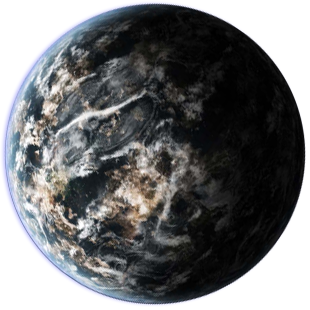
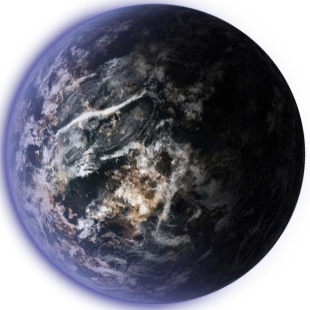
- PNG Versions of Discovery Planets
git-svn-id: https://devel.etoa.net/svn/etoa-gui/trunk@617 9ddb851b-07ab-4ff2-becd-2ceea2d3057d

Changed region(s): [[0.0, 0.0, 0.7548, 1.0]]

diff --git a/content/planetoverview.php b/content/planetoverview.php
@@ -231,7 +231,7 @@
 			echo "<table class=\"tbl\">";
 			echo "<tr>
 				<td style=\"width:330px;background:#000 url('".IMAGE_PATH."/backgrounds/bg".mt_rand(1,PLANET_BACKGROUND_COUNT).".jpg');\" rowspan=\"".($cp->debrisField ? 11 : 10)."\">
-				<img src=\"".IMAGE_PATH."/".IMAGE_PLANET_DIR."/planet".$cp->image.".gif\" alt=\"Planet\" style=\"width:310px;height:310px\"/>
+				<img src=\"".IMAGE_PATH."/".IMAGE_PLANET_DIR."/planet".$cp->image.".".IMAGE_EXT."\" alt=\"Planet\" style=\"width:310px;height:310px\"/>
 			</td>";
 			echo "<td class=\"tbltitle\">Kennung:</td><td class=\"tbldata\">
 				".$cp->id()." [<a href=\"?page=entity&id=".$cp->id()."\">Suchen</a>]</td>

diff --git a/content/map.php b/content/map.php
@@ -248,7 +248,7 @@
 				
 				// Symbole anzeigen
 				if ($cu->discovered($cell->absX(),$cell->absY()))
-				{					
+				{		
 					$tt = new Tooltip();
 					$tt->addTitle($ent->entityCodeString());
 					$tt->addText("Position: $sx/$sy : $xcoords/$ycoords  $absX $absY");
